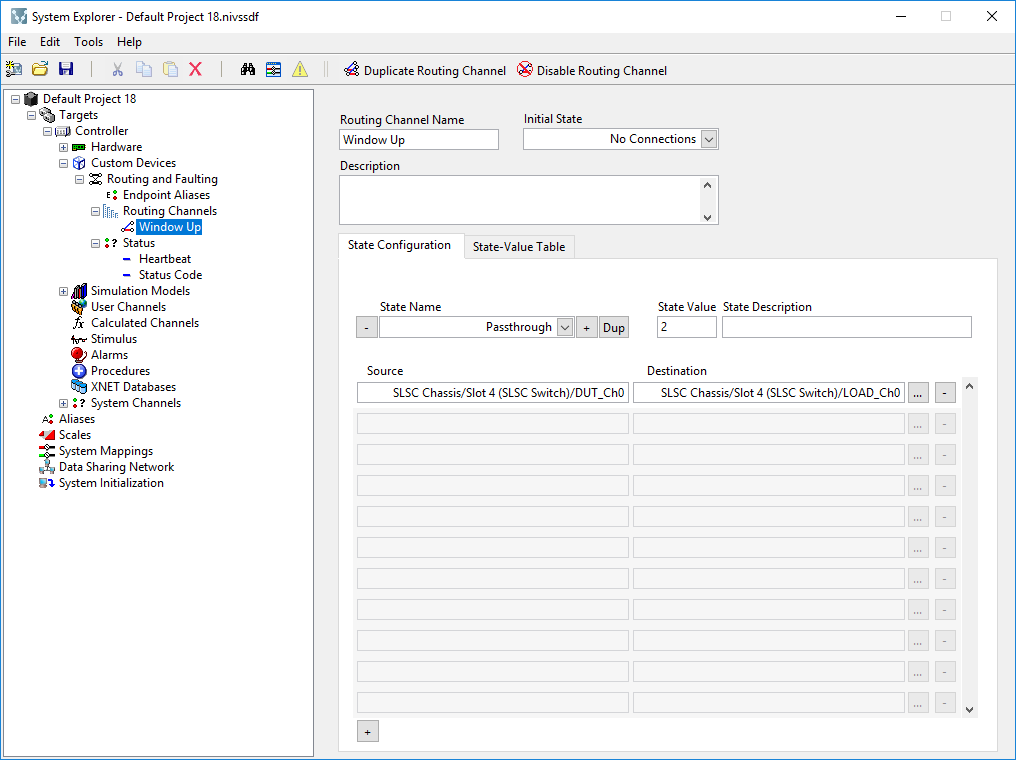
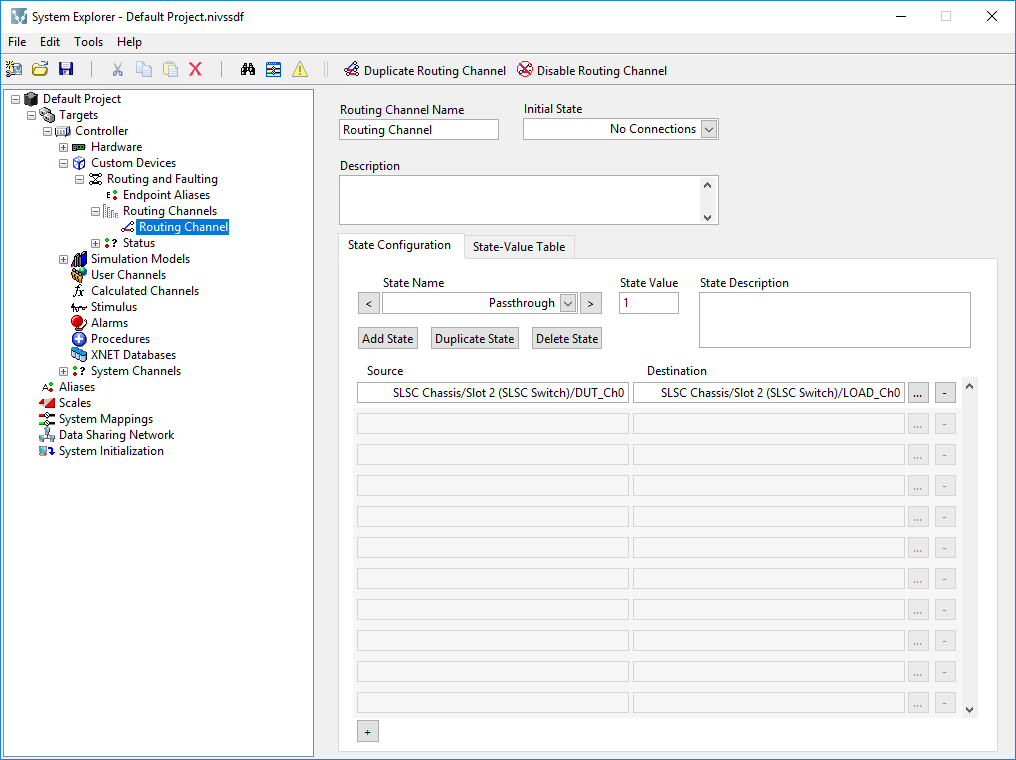
Update images in User Guide to reflect new UI, remove oddities

diff --git a/Docs/User Guide.md b/Docs/User Guide.md
@@ -53,7 +53,7 @@ Each routing channel contains one or more user-defined states. Common states for
 
 Each state contains a collection of connections. Each connection consists of a source and destination endpoint on a routing module. By default, no connections are added. Add connections to establish connections between the DUT and the I/O. A single connection cannot span multiple routing modules. Define multiple connections, one for each routing module, to connect a signal spanning multiple routing modules.
 
-Map a ring control on a VeriStand screen to a routing channel to set the current state. Set the current state to change the active connections between the DUT and the I/O. Existing connections from the previous state are disconnected before new connections from the current state are connected. Connections that remain unchanged from the previous state to the current state do not glitch.
+Map a ring control on a VeriStand screen to a routing channel to set the current state. Set the current state to change the active connections between the DUT and the I/O. Existing connections from the previous state are disconnected before new connections from the current state are connected. Connections that remain unchanged from the previous state to the current state are not modified.
 
 The following image displays how to configure a ring control on the VeriStand Editor.
 
